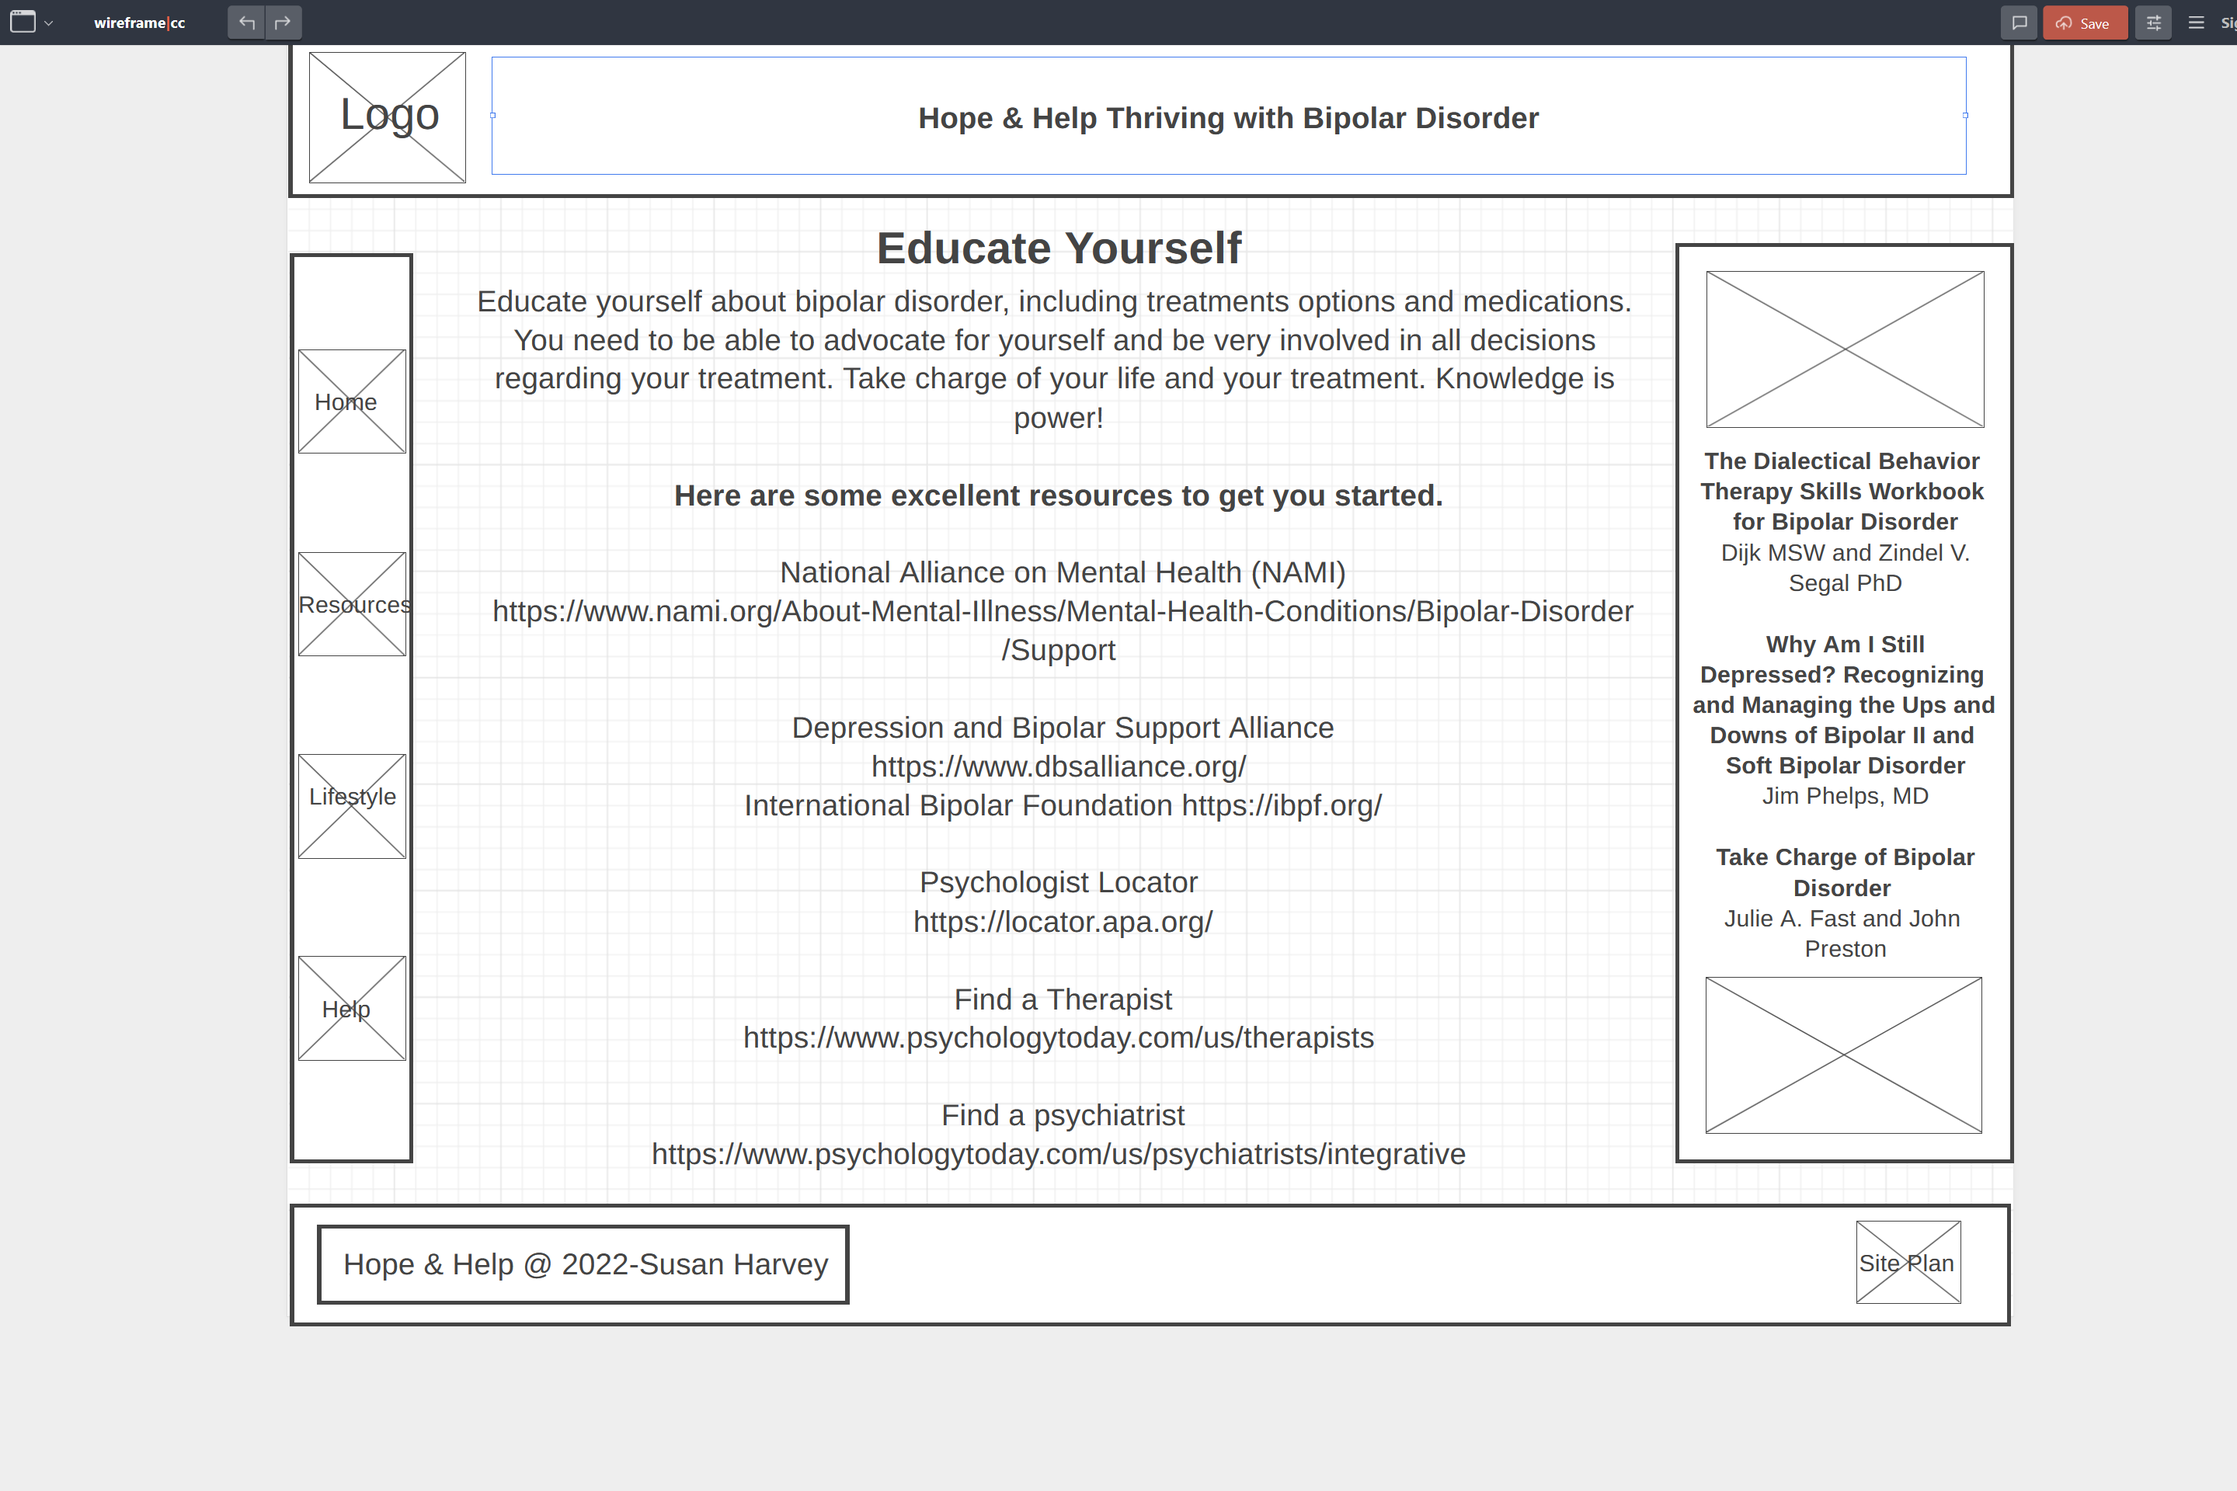
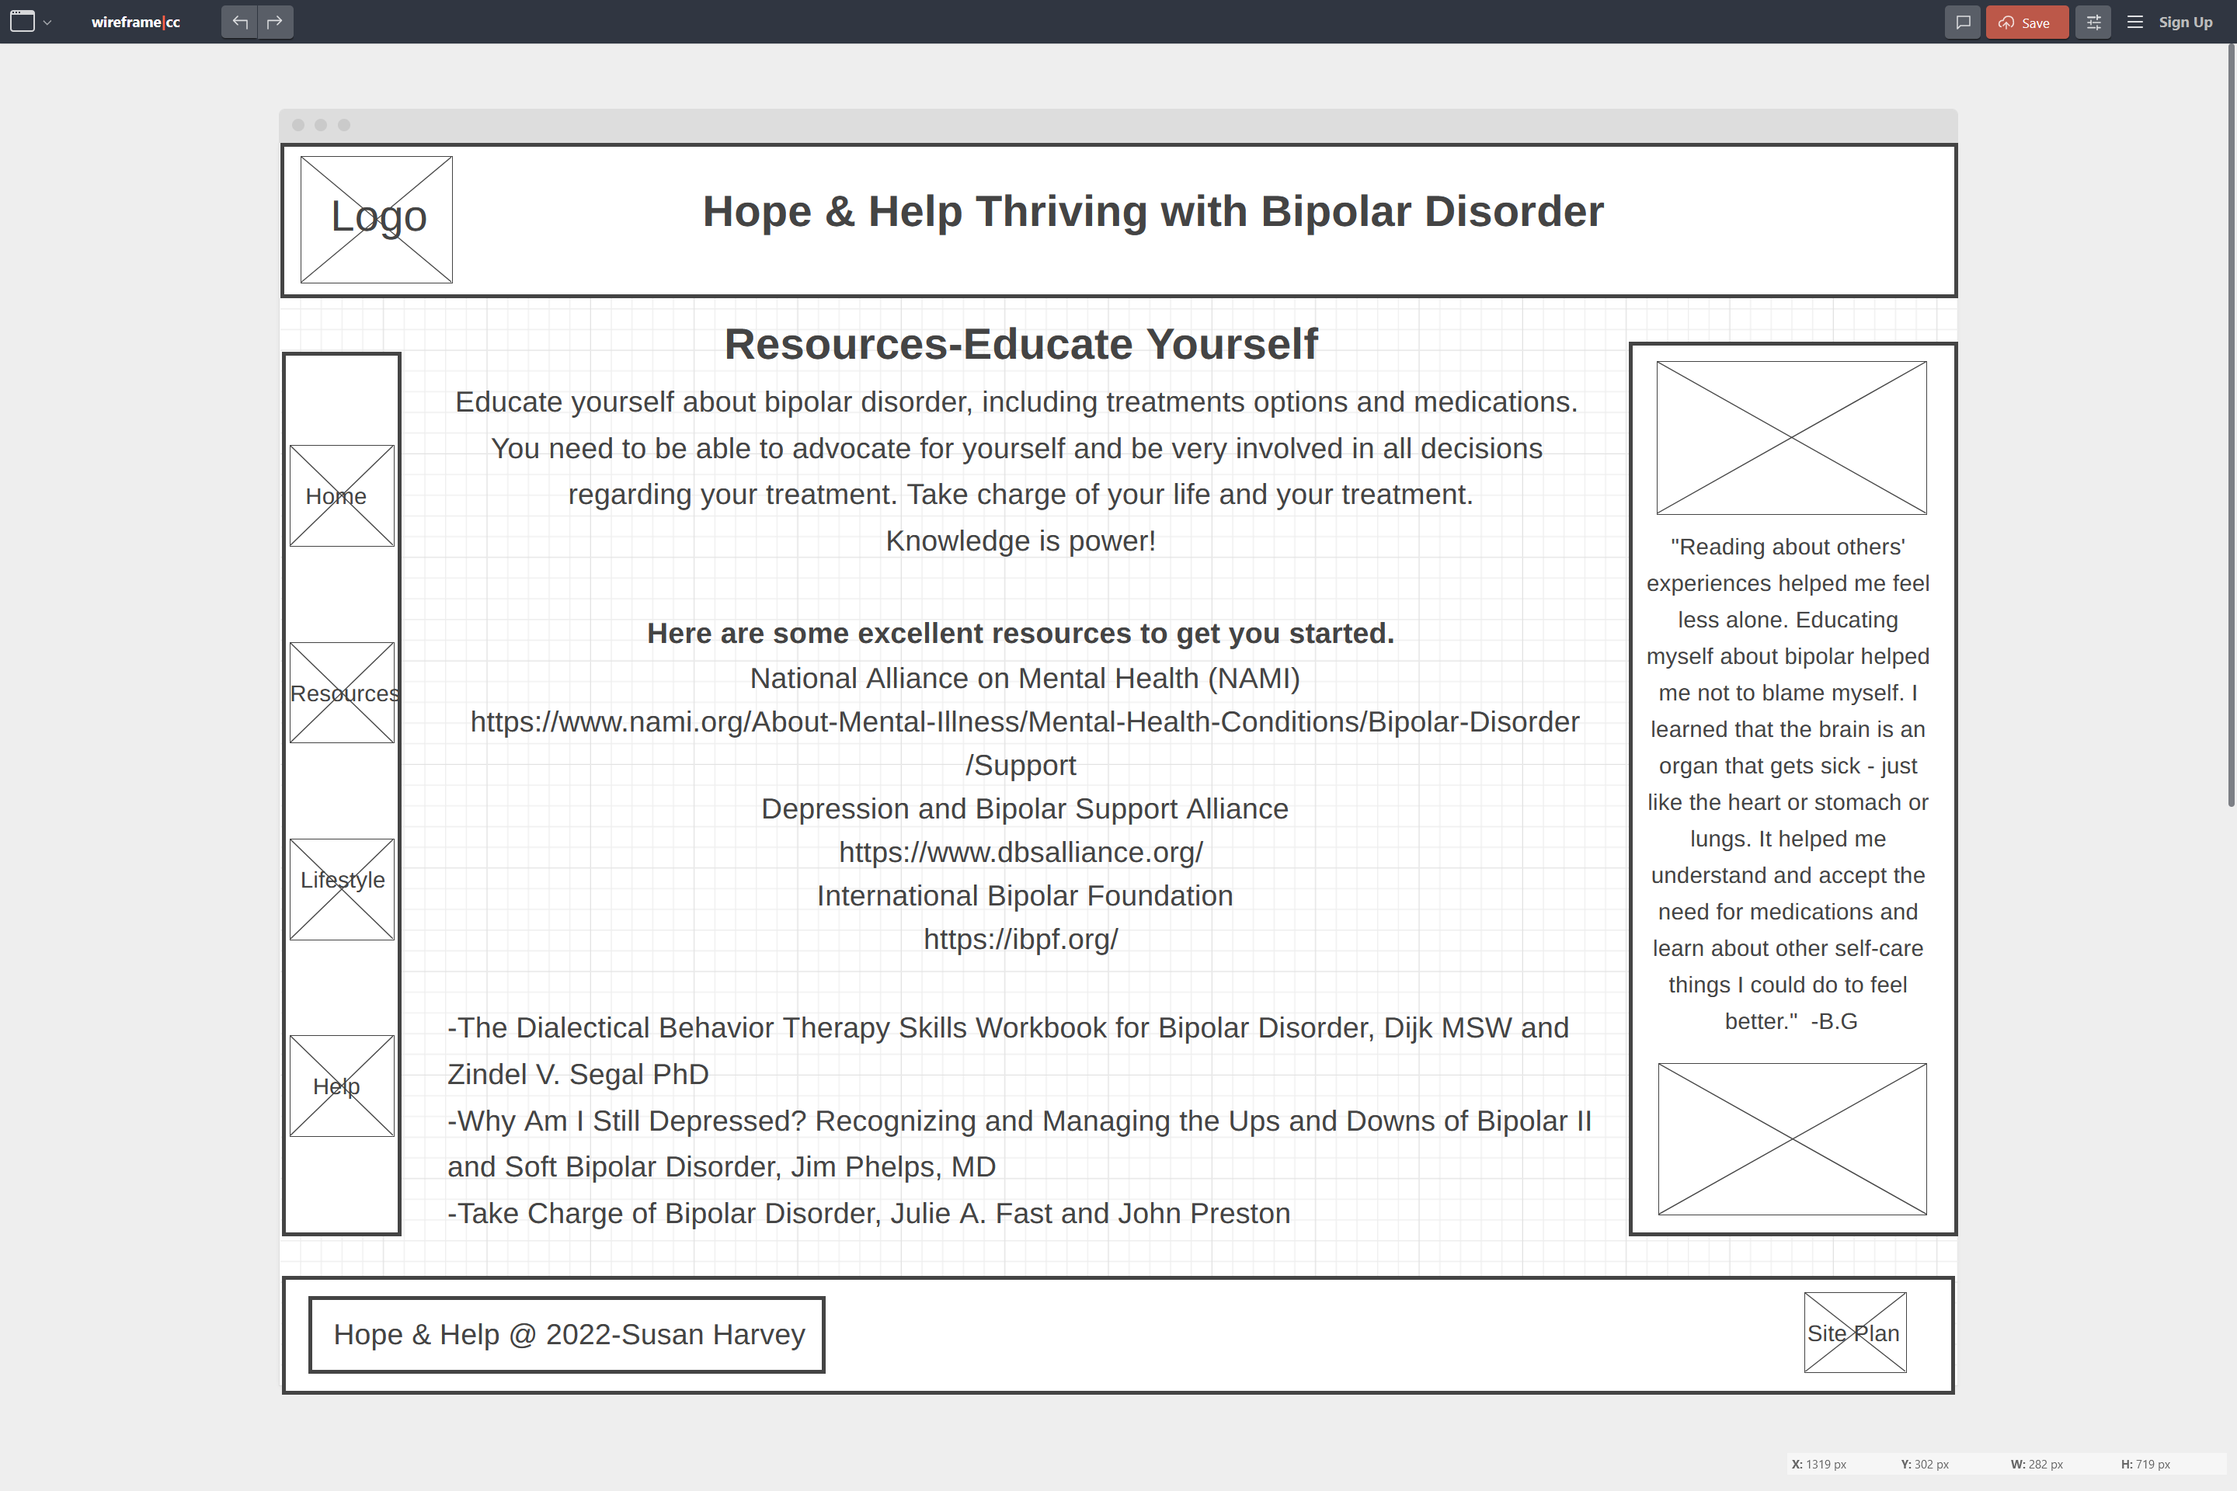
hope&help html for all pages, fixed resources link

Changed region(s): [[0.0312, 0.0, 0.9062, 0.9375], [0.7188, 0.7188, 0.9062, 0.9375], [0.8438, 0.0, 1.0, 0.0312]]

diff --git a/hope&help/professional_help.html b/hope&help/professional_help.html
@@ -1,0 +1,69 @@
+<!DOCTYPE html>
+<html lang="en">
+<head>
+    <meta charset="UTF-8">
+    <meta http-equiv="X-UA-Compatible" content="IE=edge">
+    <meta name="viewport" content="width=device-width, initial-scale=1.0">
+    <title>Hope&Help Website</title>
+</head>
+<body>
+    <div class="home-grid">
+        <header>
+            <img class="logo" src="images/hope&help-logo.png" alt="Logo image">
+                <section class="header-title">
+                    <h1>HOPE & HELP</h1>
+                    <h1>Thriving With Bipolar Disorder</h1>
+                </section>
+        </header>
+        <nav>
+            <a href="index.html">Home</a>
+            <a href="resources.html">Resources</a>
+            <a href="lifestyle.html">Lifestyle</a>
+            <a href="professional_help.html">Professional Help</a>
+        </nav>
+        <main>
+            <section id="professional-help">
+                <h2 class="page-title">PROFESSIONAL HELP</h2>
+                <p id="p9">
+                    Seeking caring, knowledgeable, and responsive medical treatment and counseling/therapy is important for those with bipolar disorder.<br>Both medication and therapy are important and will help you thrive.
+                </p>
+                <p id="p10">
+                    <b>Here are some helpful tips for what to look for in a doctor or therapist.</b>
+                </p>
+                    <ul id="help-list">
+                        <li>Look for someone who specializes in bipolar disorder and is up to date with current science. Medications and therapy treatments change quickly with new and better treatment options coming along all the time.</li>
+                        <li>Look for someone who takes the time to carefully listen to you and responds with genuine care and respect.  Make sure you are seen, heard, and taken seriously.</li>
+                        <li>Look for someone who you are at ease with and comfortable with. Having a good relationship with your doctor or therapist is crucial. If you are uncomfortable or dissatisfied, that is a good enough reason to change.</li>
+                        <li>Look for a doctor who only prescribes one medication at a time so that both you and they can easily tell what is effective and what side affects are from what medication.</li>
+                        <li>Look for a therapist who is experienced in Dialectical Behavioral Therapy (DBT), Interpersonal and Social Rhythm Therapy (IPSRT), and Cognitive Behavioral Therapy {CBT). These are currently the most recommended and effective therapies for BP.</li>
+                    </ul>
+                <p id="find-help-list">
+                    <b>Psychologist Locator</b> <a href="https://locator.apa.org/">APA</a><br>
+                    <b>Find a Therapist</b> <a href="https://www.psychologytoday.com/us/therapists">Psychology Today</a><br>
+                    <b>Find a psychiatrist</b> <a href="https://www.psychologytoday.com/us/psychiatrists/integrative">Psychology Today</a>
+                </p>
+            </section>    
+        </main>
+        <aside>
+            <div class="personal-experience">
+                <img class="aside-imgs" src="images/help-pexels-photo-4098368.webp" alt="a woman with a therapist">
+                <p id="BE">
+                        “The biggest thing I’ve learned is bi-polar doesn’t define me and it doesn’t control my life. 
+                        Through counseling, taking Latuda, regulating my sleep, being careful with my caffeine intake,
+                        and being mindful of where I’m at emotionally, I can make needed changes accordingly, I’ve 
+                        been able to minimize my mood swings and take back control of myself and my life. “ -B.E
+                </p>
+                <img class="aside-imgs" src="images/asian-female-doctor-talking-senior-caucasian-patient-during-house-call_1098-20639.webp" alt="a man talking to a doctor">
+            </div>
+        </aside>
+        <footer>
+            <p id="p4">
+                Hope & Help &copy; 2022 - Susan Harvey
+            </p>
+            <p id="p5">
+                <a href="site-plan.html">Site Plan</a>
+            </p>
+        </footer>
+    </div>     
+</body>
+</html>

diff --git a/hope&help/resources.html b/hope&help/resources.html
@@ -1,0 +1,70 @@
+<!DOCTYPE html>
+<html lang="en">
+<head>
+    <meta charset="UTF-8">
+    <meta http-equiv="X-UA-Compatible" content="IE=edge">
+    <meta name="viewport" content="width=device-width, initial-scale=1.0">
+    <title>Hope&Help Website</title>
+</head>
+<body>
+    <div class="home-grid">
+        <header>
+                <img class="logo" src="images/hope&help-logo.png" alt="Logo image">
+                <section class="header-title">
+                    <h1>HOPE & HELP</h1>
+                    <h1>Thriving With Bipolar Disorder</h1>
+                </section>
+        </header>
+        <nav>
+            <a href="index.html">Home</a>
+            <a href="resources.html">Resources</a>
+            <a href="lifestyle.html">Lifestyle</a>
+            <a href="professional_help.html">Professional Help</a>
+        </nav>
+        <main>
+            <section id="resources">
+            <h2 class="page-title">RESOURCES-Educate Yourself</h2>
+                <p id="p6">
+                    Educate yourself about bipolar disorder, including treatments options and medications. You need to be able to advocate for yourself and be very involved in all decisions regarding your treatment. Take charge of your life and your treatment.<br>Knowledge is power!
+                </p>  
+                <p id="resource-list">
+                    <b>Here are some excellent resources to get you started.</b><br>
+                <b>National Alliance on Mental Health (NAMI)</b><br>
+                <a href="https://www.nami.org/About-Mental-Illness/Mental-Health-Conditions/Bipolar-Disorder/Support">NAMI</a><br> 
+                <b>Depression and Bipolar Support Alliance</b><br>
+                <a href="https://www.dbsalliance.org/">DBSA</a><br>
+                <b>International Bipolar Foundation</b><br>
+                <a href="https://ibpf.org/">IBPF</a>
+                </p>  
+                <p id="book-list">
+                    <b>The Dialectical Behavior Therapy Skills Workbook for Bipolar Disorder,</b> Dijk MSW and Zindel V. Segal PhD<br>
+                    <b>Why Am I Still Depressed? Recognizing and Managing the Ups and Downs of Bipolar II and Soft Bipolar Disorder,</b> Jim Phelps, MD<br>
+                    <b>Take Charge of Bipolar Disorder,</b> Julie A. Fast and John Preston
+                </p>
+            </section>      
+        </main>
+        <aside>
+            <div class="personal-experience">
+                <img class="aside_imgs" src="images/educate-pexels-photo-8653712.webp" alt="man reading on his computer">
+                <p id="BG">
+                    "Reading about others' experiences helped me feel less alone.
+                    Educating myself about bipolar helped me not to blame myself.
+                    I learned that the brain is an organ that gets sick - just
+                    like the heart or stomach or lungs. It helped me understand 
+                    and accept the need for medications and learn about other 
+                    self-care things I could do to feel better." -B.G
+                </p>
+                <img class="aside-imgs" src="images/woman-reading-book-park_501669-11965.jpg" alt="woman reading a book">
+            </div>
+        </aside>
+        <footer>
+            <p id="p4">
+                Hope & Help &copy; 2022 - Susan Harvey
+            </p>
+            <p id="p5">
+                <a href="site-plan.html">Site Plan</a>
+            </p>
+        </footer>
+    </div>     
+</body>
+</html>

diff --git a/hope&help/lifestyle.html b/hope&help/lifestyle.html
@@ -1,0 +1,63 @@
+<!DOCTYPE html>
+<html lang="en">
+<head>
+    <meta charset="UTF-8">
+    <meta http-equiv="X-UA-Compatible" content="IE=edge">
+    <meta name="viewport" content="width=device-width, initial-scale=1.0">
+    <title>Hope&Help Website</title>
+</head>
+<body>
+    <div class="home-grid">
+        <header>
+            <img class="logo" src="images/hope&help-logo.png" alt="Logo image">
+                <section class="header-title">
+                    <h1>HOPE & HELP</h1>
+                    <h1>Thriving With Bipolar Disorder</h1>
+                </section>
+        </header>
+        <nav>
+            <a href="index.html">Home</a>
+            <a href="resources.html">Resources</a>
+            <a href="lifestyle.html">Lifestyle</a>
+            <a href="professional_help.html">Professional Help</a>
+        </nav>
+        <main>
+            <section id="lifestyle">
+                <h2 class="page-title">LIFESTYLE HELPS</h2>
+                <img id="food" src="images/food-pexels-photo-7129442.webp" alt="healthy food">
+                <p id="p7">
+                    The best way to begin your thriving journey is by making basic lifestyle changes that are good for everyone but especially for those living with BP. 
+                </p>
+                    <ul id="lifestyle-list">
+                        <li>Eat regularly. Choose healthy foods with a variety of protein, fruits and vegetables, and grains. Lower fat, sugar and salt. Reduce caffeine intake. Avoid alcohol and drugs.</li> 
+                        <li>Establish a regular exercise routine, something you enjoy, 30 minutes a day.</li>
+                        <li>Establish a consistent sleep routine and schedule and get enough sleep.</li>
+                        <li>Learn to manage stress. Meditation, massage, yoga, deep breathing, tai chi, or listening to calming music are all great tools for managing stress.</li>
+                        <li>Learn to set boundaries. It is okay to say no and not do everything.</li>
+                        <li>Take time to do the things you love and enjoy. Avoid extensive TV watching and social media.</li>
+                    </ul>
+                <p id="p8">
+                    Lifestyle changes can make a huge difference in your ability to thrive.
+                </p>
+            </section>
+        </main>
+        <aside>
+            <div class="personal-experience">
+                <img class="aside-imgs" src="images/music-pexels-photo-8191471.jpeg" alt="woman listening to music">
+                <p id="DJ">
+                    "By doing the little things to improve my life, it is easier. Having compassion on myself and improving the way that I cope and care for myself and my emotions has made all the difference. Adjusting the words and tone that I use when I talk to/think about myself and my feelings has helped reduce anxiety and shaming and increased my ability to thrive and enjoy life once more.“  -D.J
+                </p>
+                <img class="aside-imgs" src="images/adult-man-doing-dolphin-yoga-pose-his-workout-routine-healthy-workout_482257-34176.jpg" alt="man doing yoga">
+            </div>
+        </aside>
+        <footer>
+            <p id="p4">
+                Hope & Help &copy; 2022 - Susan Harvey
+            </p>
+            <p id="p5">
+                <a href="site-plan.html">Site Plan</a>
+            </p>
+        </footer>
+    </div>     
+</body>
+</html>

diff --git a/hope&help/index.html b/hope&help/index.html
@@ -1,0 +1,57 @@
+<!DOCTYPE html>
+<html lang="en">
+<head>
+    <meta charset="UTF-8">
+    <meta http-equiv="X-UA-Compatible" content="IE=edge">
+    <meta name="viewport" content="width=device-width, initial-scale=1.0">
+    <title>Hope&Help Website</title>
+</head>
+<body>
+    <div class="home-grid">
+        <header>
+            <img class="logo" src="images/hope&help-logo.png" alt="Logo image">
+                <section class="header-title">
+                    <h1>HOPE & HELP</h1>
+                    <h1>Thriving With Bipolar Disorder</h1>
+                </section>
+        </header>
+        <nav>
+            <a href="index.html">Home</a>
+            <a href="resources.html">Resources</a>
+            <a href="lifestyle.html">Lifestyle</a>
+            <a href="professional_help.html">Professional Help</a>
+        </nav>
+        <main class="main-grid">
+            <section id="banner">
+                <h1 class="home-title">HOPE & HELP</h1>
+                <img id="banner-img" src="images/optimized-flower-1000_F_185193152_wrLXFnPueRgDowwCfFJlDZJRrQfyLxd8.jpg" alt="flower growing out of a crack in the sidewalk">
+                <p id="p1">
+                    Do you or someone you care about live with bipolar disorder? 
+                </p>
+                <p id="p2">
+                You are not alone. According to the National Institute of Mental Health, over 5 ½ million Americans are diagnosed with bipolar disorder every year. Living with bipolar disorder (BP) is challenging and can be overwhelming for the individual and those who care about them.
+                </p>
+                <p id="p3">
+                Please know, there is hope and help. People with bipolar disorder can live happy, healthy, productive lives. They can thrive in spite of their illness. By educating yourself, making lifestyle changes, and seeking professional help, you can thrive and have a fulfilling, meaningful life.
+                </p>
+            </section>
+        </main>
+        <aside>
+            <div class="personal-experience">
+                <p id="SLH">
+                    “Ten years ago, I never would have expected to be chasing my dreams and thriving in a challenging, high stress environment. I had to be honest with myself about my illness and listen to my body. I had to make sure to prioritize sleep, food, and be willing to seek out help and a robust support system.”  -S.L.H
+                </p>
+                <img id="home-aside-img" src="images/happy-middle-aged-man-making-notes-street-cafe_1262-18860.webp" alt="a happy man">
+            </div>
+        </aside>
+        <footer>
+            <p id="p4">
+                Hope & Help &copy; 2022 - Susan Harvey
+            </p>
+            <p id="p5">
+                <a href="site-plan.html">Site Plan</a>
+            </p>
+        </footer>
+    </div>     
+</body>
+</html>
